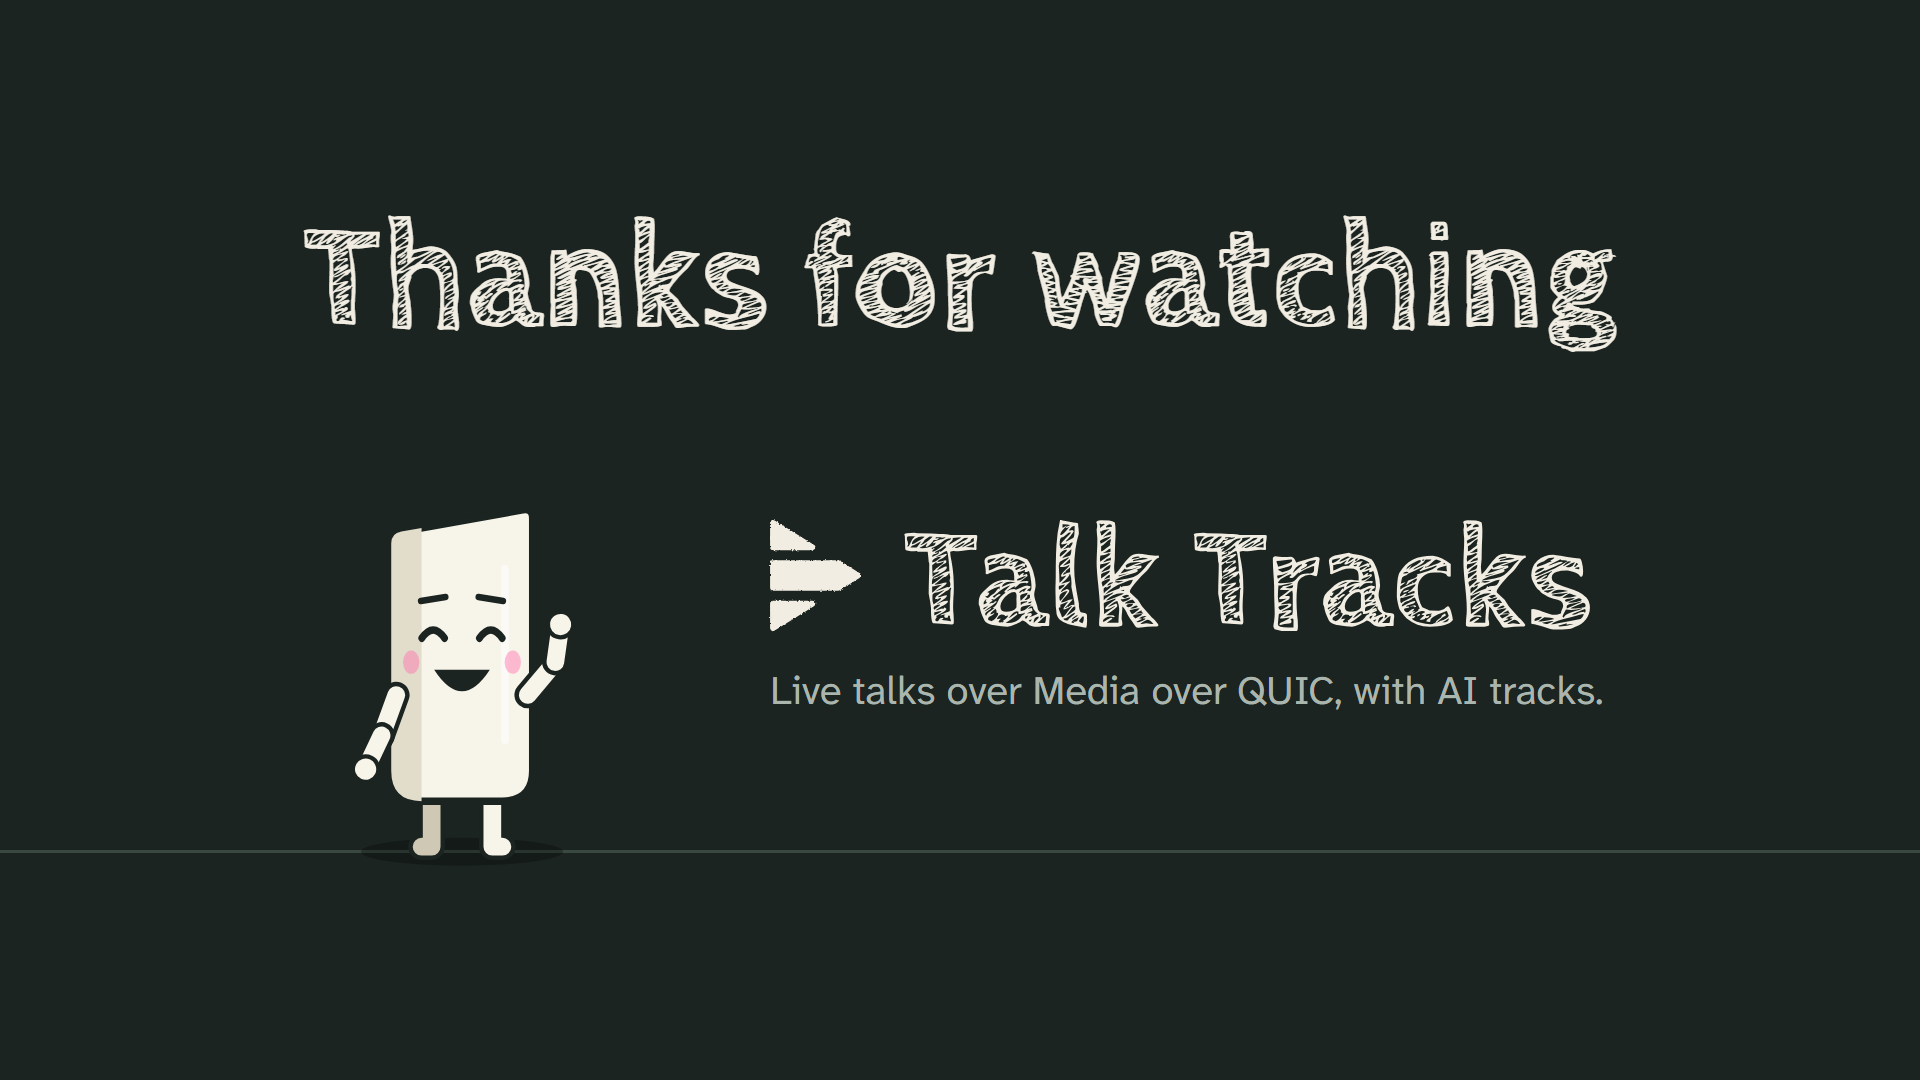
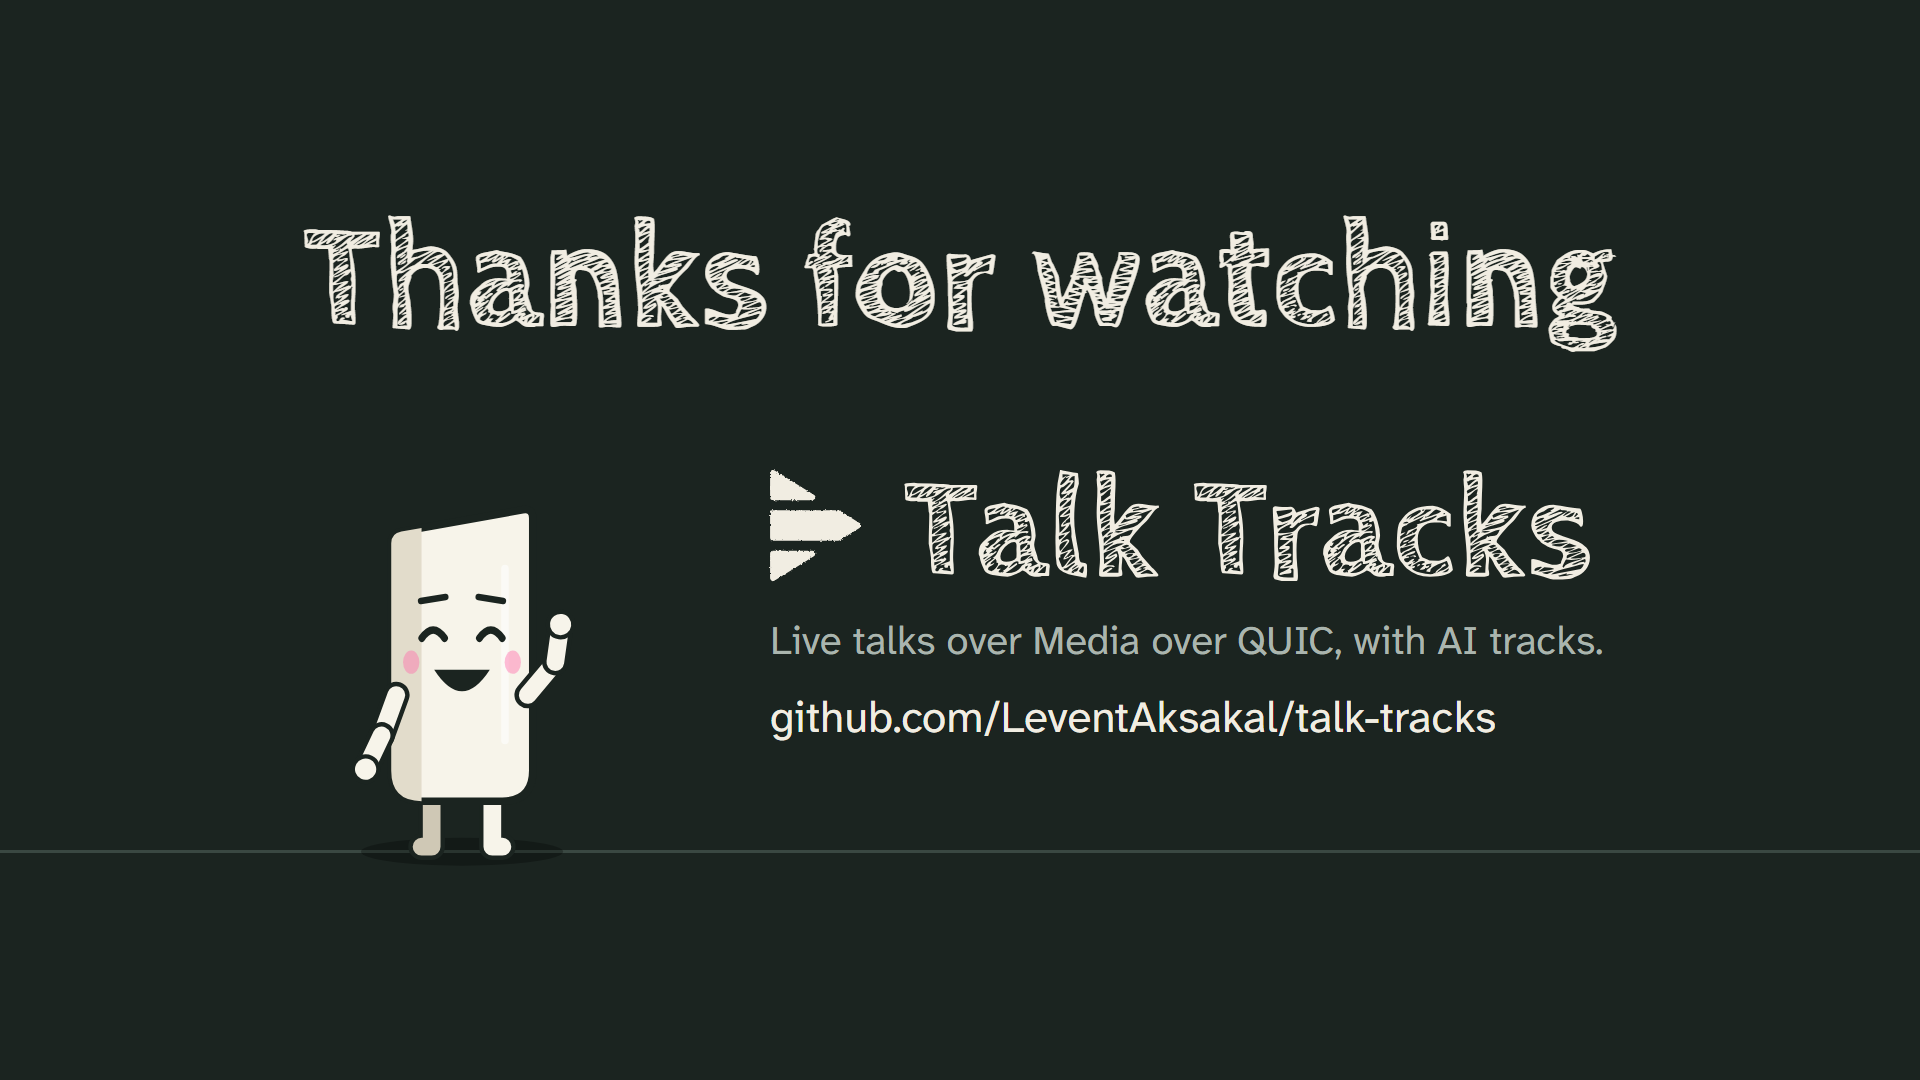
feat(brand): the public repo address on the video end card
Rebuilt with node web/scripts/brand/build.ts; only end.png changed.

Changed region(s): [[0.375, 0.4278, 0.8438, 0.7028]]

diff --git a/web/scripts/brand/build.ts b/web/scripts/brand/build.ts
@@ -184,6 +184,9 @@ function titleCard() {
   );
 }
 
+/** The public repository, on the end card. */
+const REPO = "github.com/LeventAksakal/talk-tracks";
+
 function endCard() {
   return page(
     1920,
@@ -193,9 +196,10 @@ function endCard() {
       <p class="title" style="margin:0;font-size:150px;line-height:1">Thanks for watching</p>
     </div>
     ${standing({ cycle: "wave", face: "laugh" }, 460, 300, 852)}
-    <div style="position:absolute;left:770px;top:520px">
+    <div style="position:absolute;left:770px;top:470px">
       ${lockupInline(820)}
       <p style="margin:34px 0 0;font-size:40px;color:${MUTED}">Live talks over Media over QUIC, with AI tracks.</p>
+      <p style="margin:22px 0 0;font-size:44px;color:${CHALK_TEXT}">${REPO}</p>
     </div>`,
     BOARD,
   );
